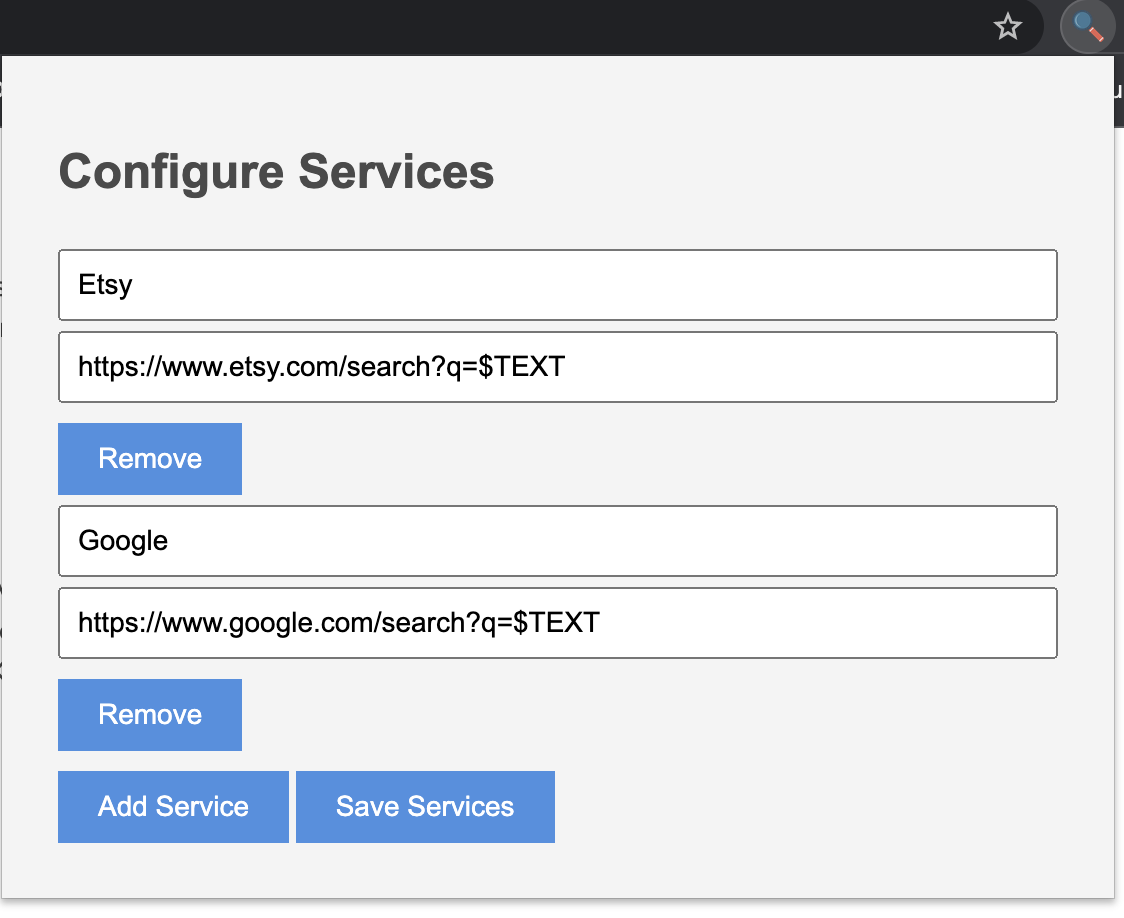
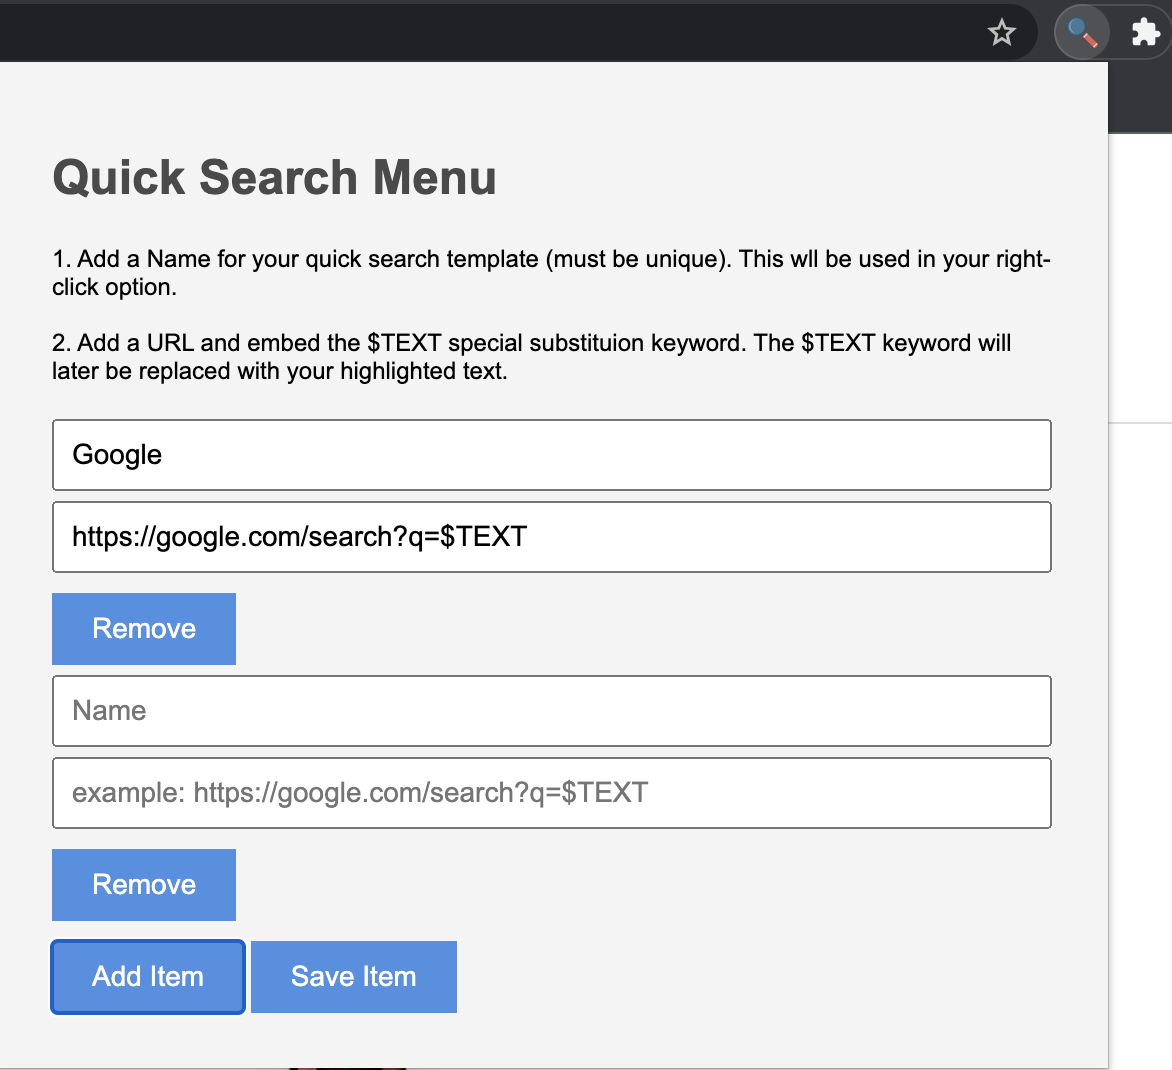
Update usage descriptions

Changed region(s): [[0.0, 0.1525, 0.9964, 1.0], [0.0, 0.0, 1.0, 0.1525]]

diff --git a/options.html b/options.html
@@ -5,13 +5,16 @@
     <link rel="stylesheet" href="options.css">
   </head>
   <body>
-    <h1>Configure Services</h1>
+    <h1>Quick Search Menu</h1>
+    <p>
+      1. Add a Name for your quick search template (must be unique). This wll be used in your right-click option.<br /><br />
+      2. Add a URL and embed the $TEXT special substituion keyword. The $TEXT keyword will later be replaced with your highlighted text.
+    </p>
     <form id="servicesForm">
       <!-- Services will be added here by options.js -->
     </form>
-    <button id="addService">Add Service</button>
-    <button id="saveServices">Save Services</button>
+    <button id="addService">Add Item</button>
+    <button id="saveServices">Save Item</button>
     <script src="options.js"></script>
   </body>
 </html>
-

diff --git a/options.js b/options.js
@@ -11,7 +11,7 @@ function createServiceInput(key = '', value = '') {
 
   const valueInput = document.createElement('input');
   valueInput.type = 'text';
-  valueInput.placeholder = 'Service URL (use $TEXT for the highlighted text)';
+  valueInput.placeholder = 'example: https://google.com/search?q=$TEXT';
   valueInput.value = value;
 
   const removeBtn = document.createElement('button');
@@ -56,4 +56,3 @@ saveServicesBtn.addEventListener('click', () => {
     alert('Quick Search Items saved!');
   });
 });
-

diff --git a/README.md b/README.md
@@ -5,10 +5,10 @@
 Do you highlight, copy and paste into a search bar often? Sure you do!
 With a little help from Quick Search Menu you can configure multiple "quick searches" from the extensions options page, which will then become available as right click options.
 
-For example, say I wanted to search Google for the some text I've Highlighted:
+For example, say I wanted to search Google for some text I've highlighted:
 
 ![Configure Quick Search Items](./img/configure-quick-search-menu.png)
 
-After adding the item, we can easily highlight text on the page and search google with our selection:
+After adding the the quick search template item, we can easily highlight text on the page and search google with our selection:
 
 ![Right-click context-menu showing user created search options](./img/right-click-quick-search-menu.png)
